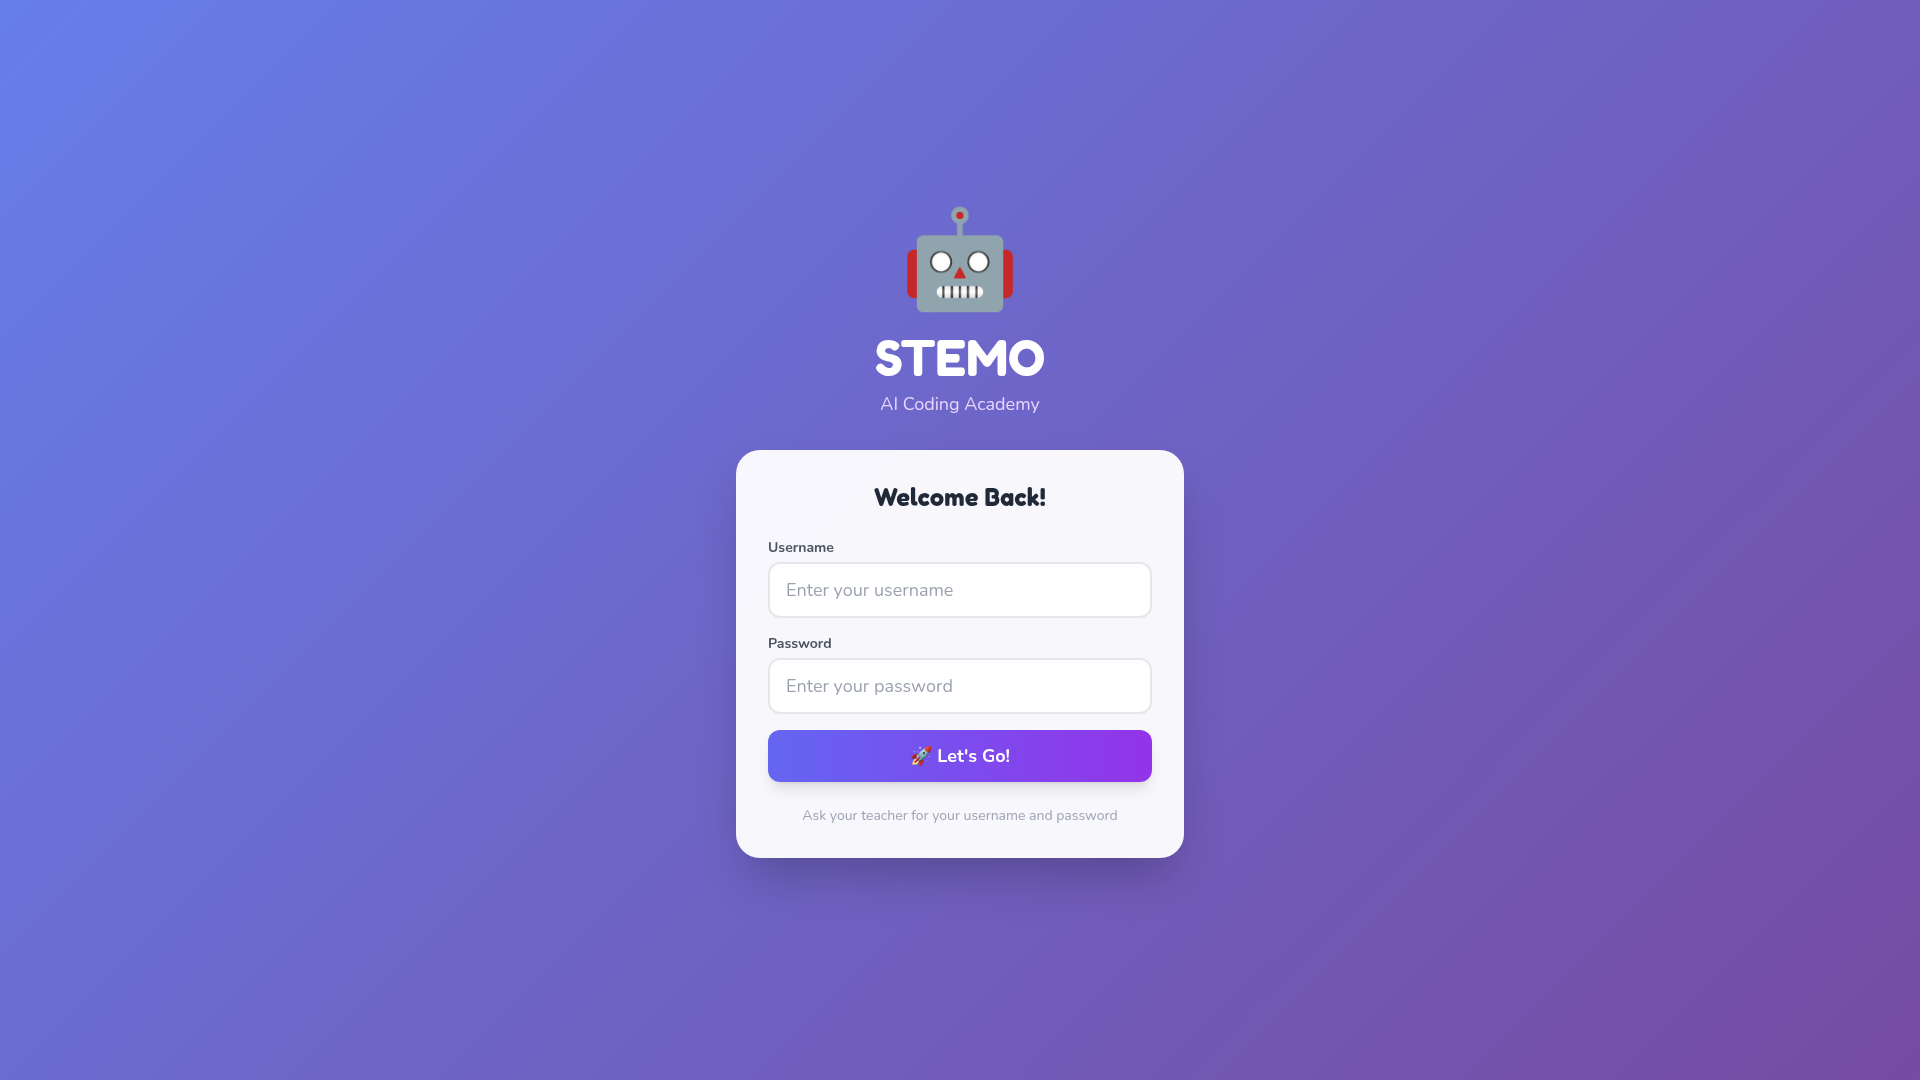
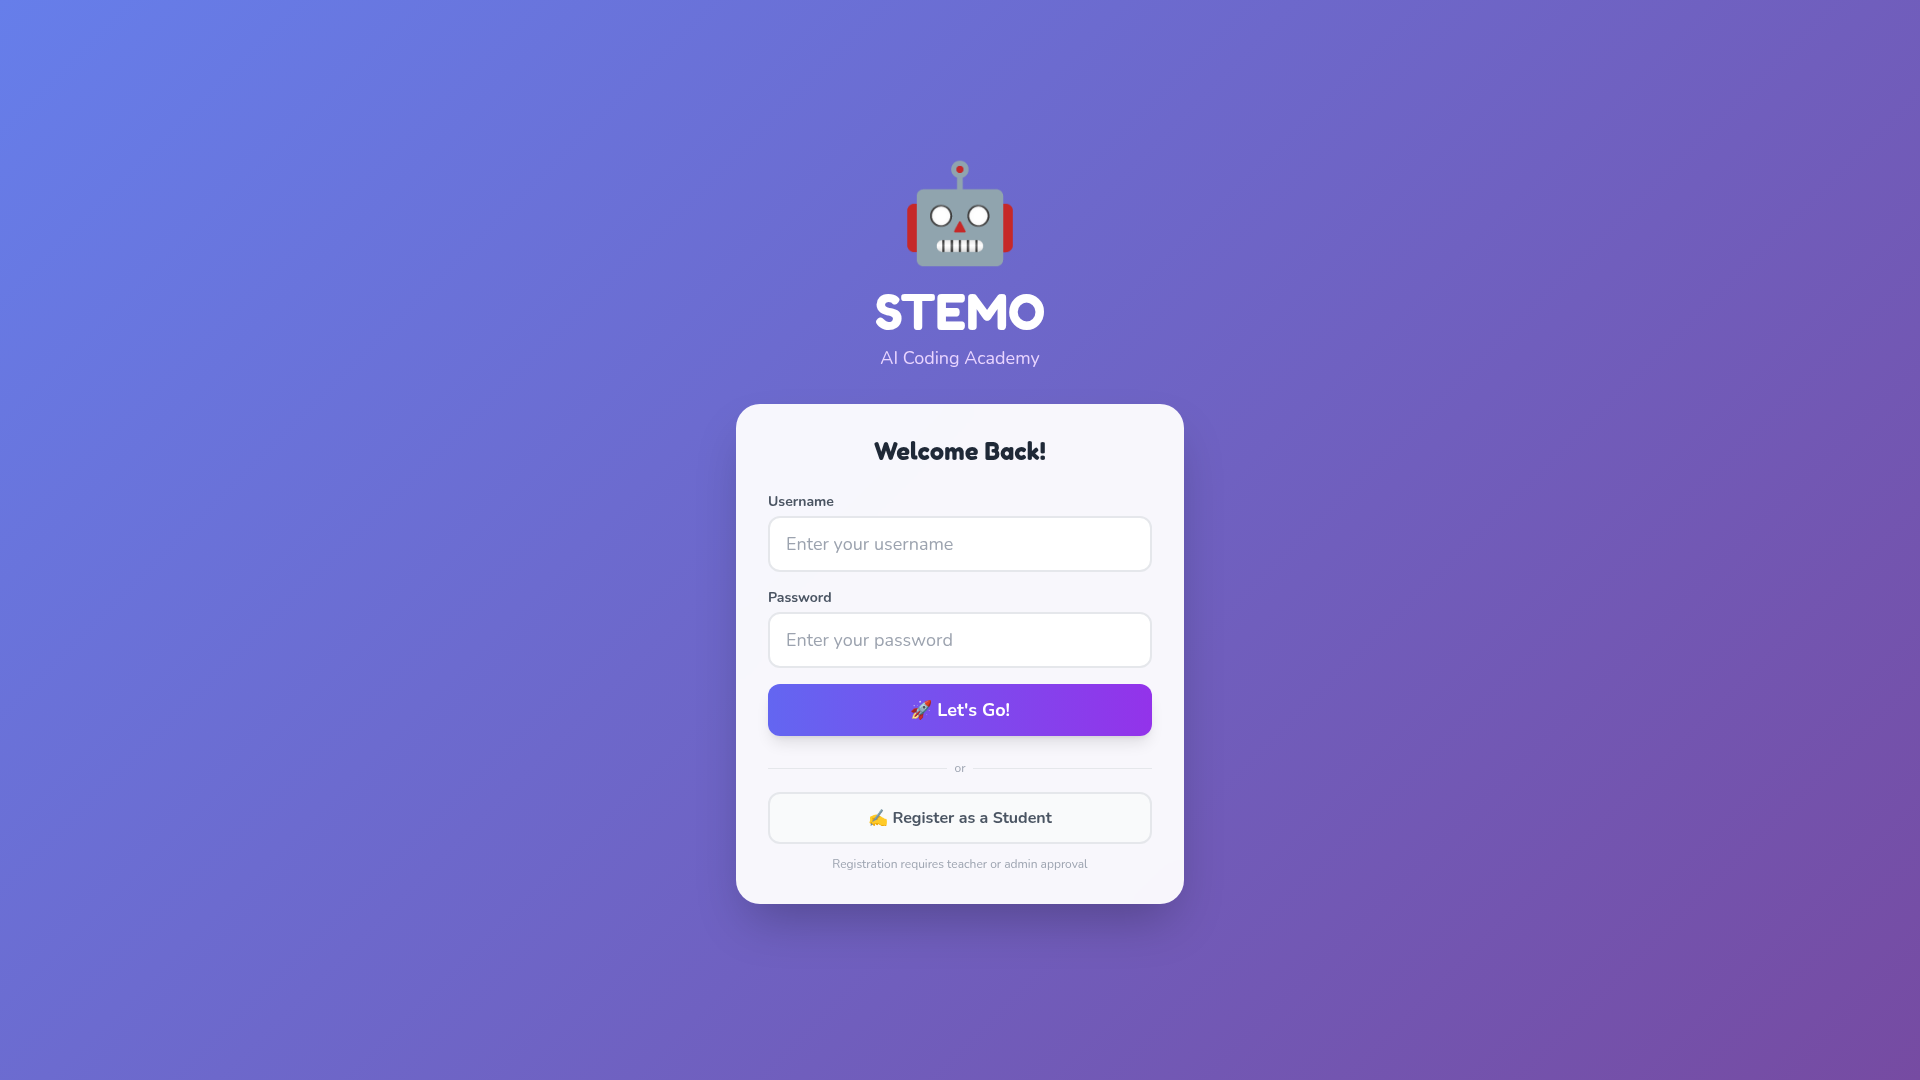
Fix login loop by correctly parsing authentication tokens
Update token creation and parsing logic to handle URL-safe base64 encoding and correctly extract JWT from cookies, resolving issues where tokens were truncated and caused immediate logout.

Replit-Commit-Author: Agent
Replit-Commit-Session-Id: f2174d0c-2de3-4818-93e2-1e2feb370040
Replit-Commit-Checkpoint-Type: full_checkpoint
Replit-Commit-Event-Id: 9f2ab2cb-b66d-411a-934b-76e2a63abad8
Replit-Commit-Screenshot-Url: https://storage.googleapis.com/screenshot-production-us-central1/f5e6486b-8370-4d84-b99e-f0c443b9b245/f2174d0c-2de3-4818-93e2-1e2feb370040/KqxH4m7
Replit-Helium-Checkpoint-Created: true

Changed region(s): [[0.375, 0.4583, 0.625, 0.7639], [0.375, 0.1528, 0.625, 0.4278], [0.375, 0.7944, 0.625, 0.8556]]

diff --git a/src/index.tsx b/src/index.tsx
@@ -26,29 +26,44 @@ async function hashPassword(password: string): Promise<string> {
     return Array.from(new Uint8Array(hash)).map(b => b.toString(16).padStart(2, '0')).join('')
 }
 
+function b64url(str: string): string {
+    return str.replace(/\+/g, '-').replace(/\//g, '_').replace(/=/g, '')
+}
+
 async function createToken(payload: any): Promise<string> {
-    const header = btoa(JSON.stringify({ alg: 'HS256', typ: 'JWT' }))
-    const body = btoa(JSON.stringify({ ...payload, exp: Date.now() + 86400000 * 7 }))
+    const header = b64url(btoa(JSON.stringify({ alg: 'HS256', typ: 'JWT' })))
+    const body = b64url(btoa(unescape(encodeURIComponent(JSON.stringify({ ...payload, exp: Date.now() + 86400000 * 7 })))))
     const encoder = new TextEncoder()
     const key = await crypto.subtle.importKey('raw', encoder.encode('stemo-secret-key-2024'), { name: 'HMAC', hash: 'SHA-256' }, false, ['sign'])
     const sig = await crypto.subtle.sign('HMAC', key, encoder.encode(`${header}.${body}`))
-    const sigB64 = btoa(String.fromCharCode(...new Uint8Array(sig)))
+    const sigB64 = b64url(btoa(String.fromCharCode(...new Uint8Array(sig))))
     return `${header}.${body}.${sigB64}`
+}
+
+function b64urlDecode(str: string): string {
+    str = str.replace(/-/g, '+').replace(/_/g, '/')
+    while (str.length % 4) str += '='
+    return decodeURIComponent(escape(atob(str)))
 }
 
 async function verifyToken(token: string): Promise<any> {
     try {
         const parts = token.split('.')
         if (parts.length !== 3) return null
-        const payload = JSON.parse(atob(parts[1]))
+        const payload = JSON.parse(b64urlDecode(parts[1]))
         if (payload.exp < Date.now()) return null
         return payload
     } catch { return null }
 }
 
+function getCookieToken(cookie: string): string | undefined {
+    const part = cookie.split(';').find((p: string) => p.trim().startsWith('stemo_token='))
+    return part ? part.trim().slice('stemo_token='.length) : undefined
+}
+
 async function authMiddleware(c: any, next: any) {
     const cookie = c.req.header('cookie') || ''
-    const token = cookie.split(';').find((p: string) => p.trim().startsWith('stemo_token='))?.split('=')[1]
+    const token = getCookieToken(cookie)
     if (!token) return c.json({ error: 'Unauthorized' }, 401)
     const payload = await verifyToken(token)
     if (!payload) return c.json({ error: 'Invalid token' }, 401)
@@ -139,7 +154,7 @@ app.post('/api/auth/logout', (c) => {
 // Get current user
 app.get('/api/auth/me', async (c) => {
     const cookie = c.req.header('cookie') || ''
-    const token = cookie.split(';').find((p: string) => p.trim().startsWith('stemo_token='))?.split('=')[1]
+    const token = getCookieToken(cookie)
     if (!token) return c.json({ user: null })
     const payload = await verifyToken(token)
     if (!payload) return c.json({ user: null })
@@ -4917,7 +4932,7 @@ app.get('/dashboard/parent', (c) => c.html(parentDashboard))
 // Main app - check auth and redirect students, allow access with user info
 app.get('/', async (c) => {
     const cookie = c.req.header('cookie') || ''
-    const token = cookie.split(';').find((p: string) => p.trim().startsWith('stemo_token='))?.split('=')[1]
+    const token = getCookieToken(cookie)
     if (!token) return c.redirect('/login')
     const payload = await verifyToken(token)
     if (!payload) return c.redirect('/login')
